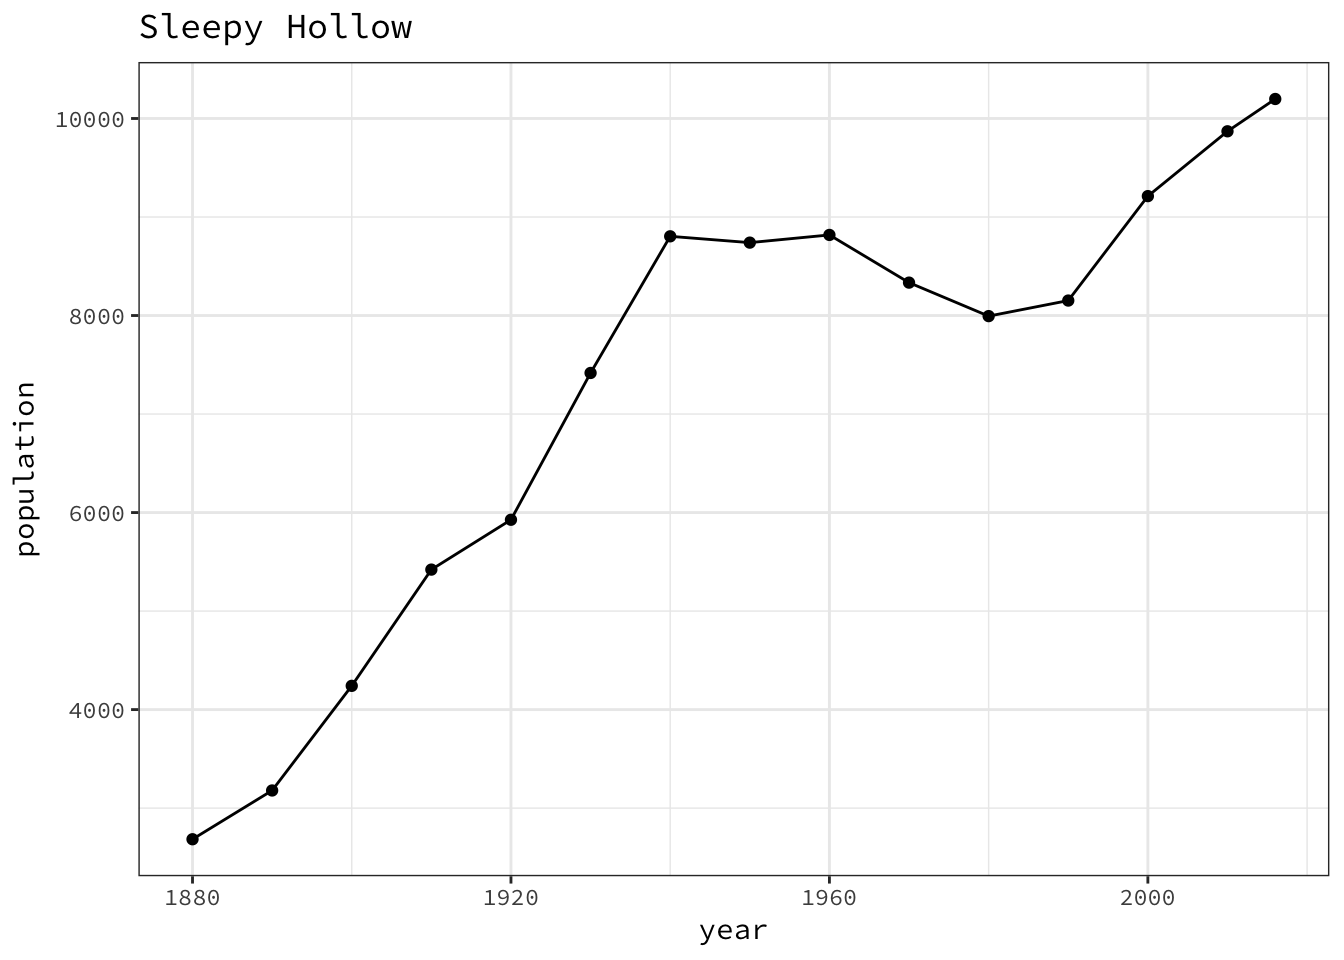
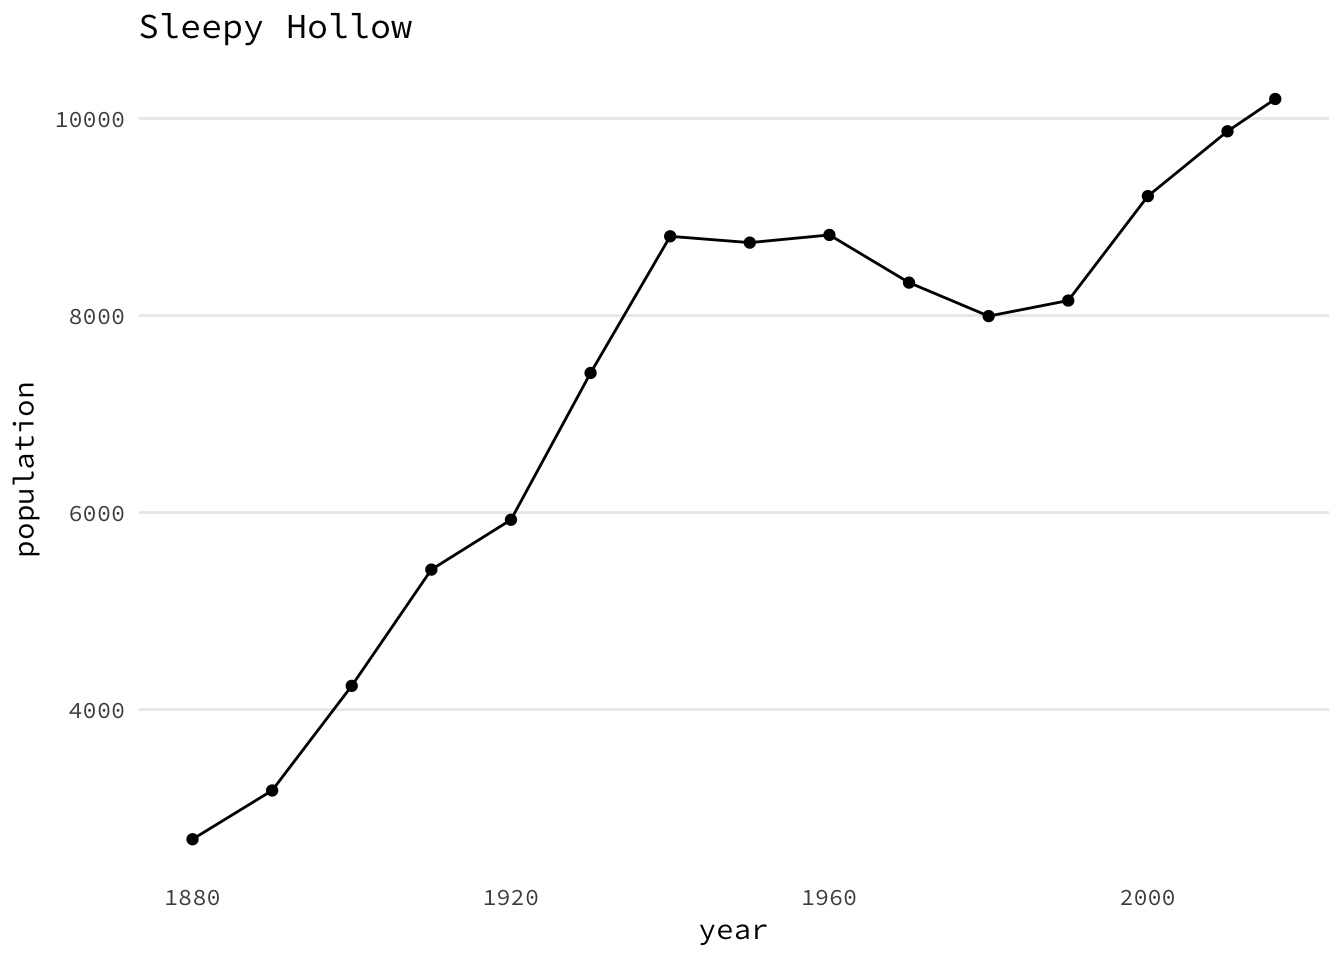
plot modification

diff --git a/public/2018/04/28/harvest-data-from-the-web/index.html b/public/2018/04/28/harvest-data-from-the-web/index.html
@@ -231,8 +231,10 @@ sleepy %&gt;%
   geom_line() +
   geom_point() +
   labs(title = &quot;Sleepy Hollow&quot;) +
-  theme_bw() +
-  theme(text = element_text(family = &quot;Source Code Pro&quot;))
+  theme_minimal() +
+  theme(text = element_text(family = &quot;Source Code Pro&quot;),
+        panel.grid.minor = element_blank(),
+        panel.grid.major.x = element_blank())
 </code></pre>
 
 <p><img src="/post/2018-04-28-harvest-data-from-the-web_files/figure-html/unnamed-chunk-6-1.png" width="672" /></p>
